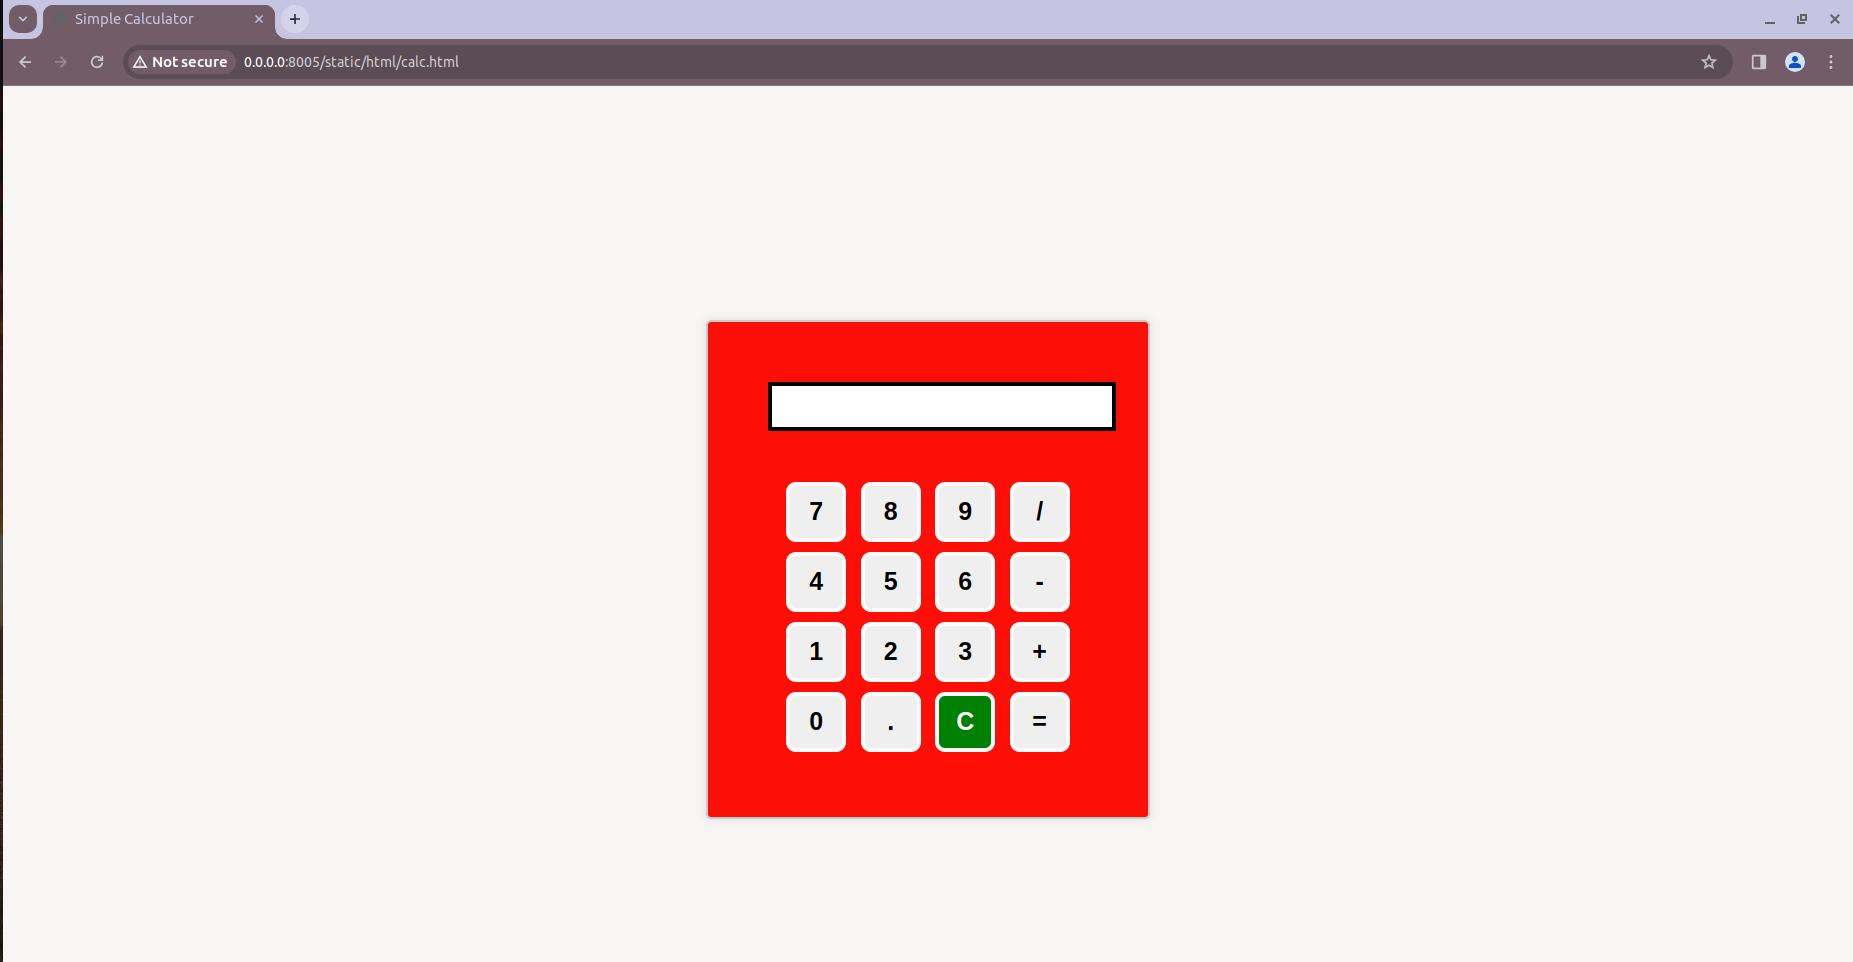
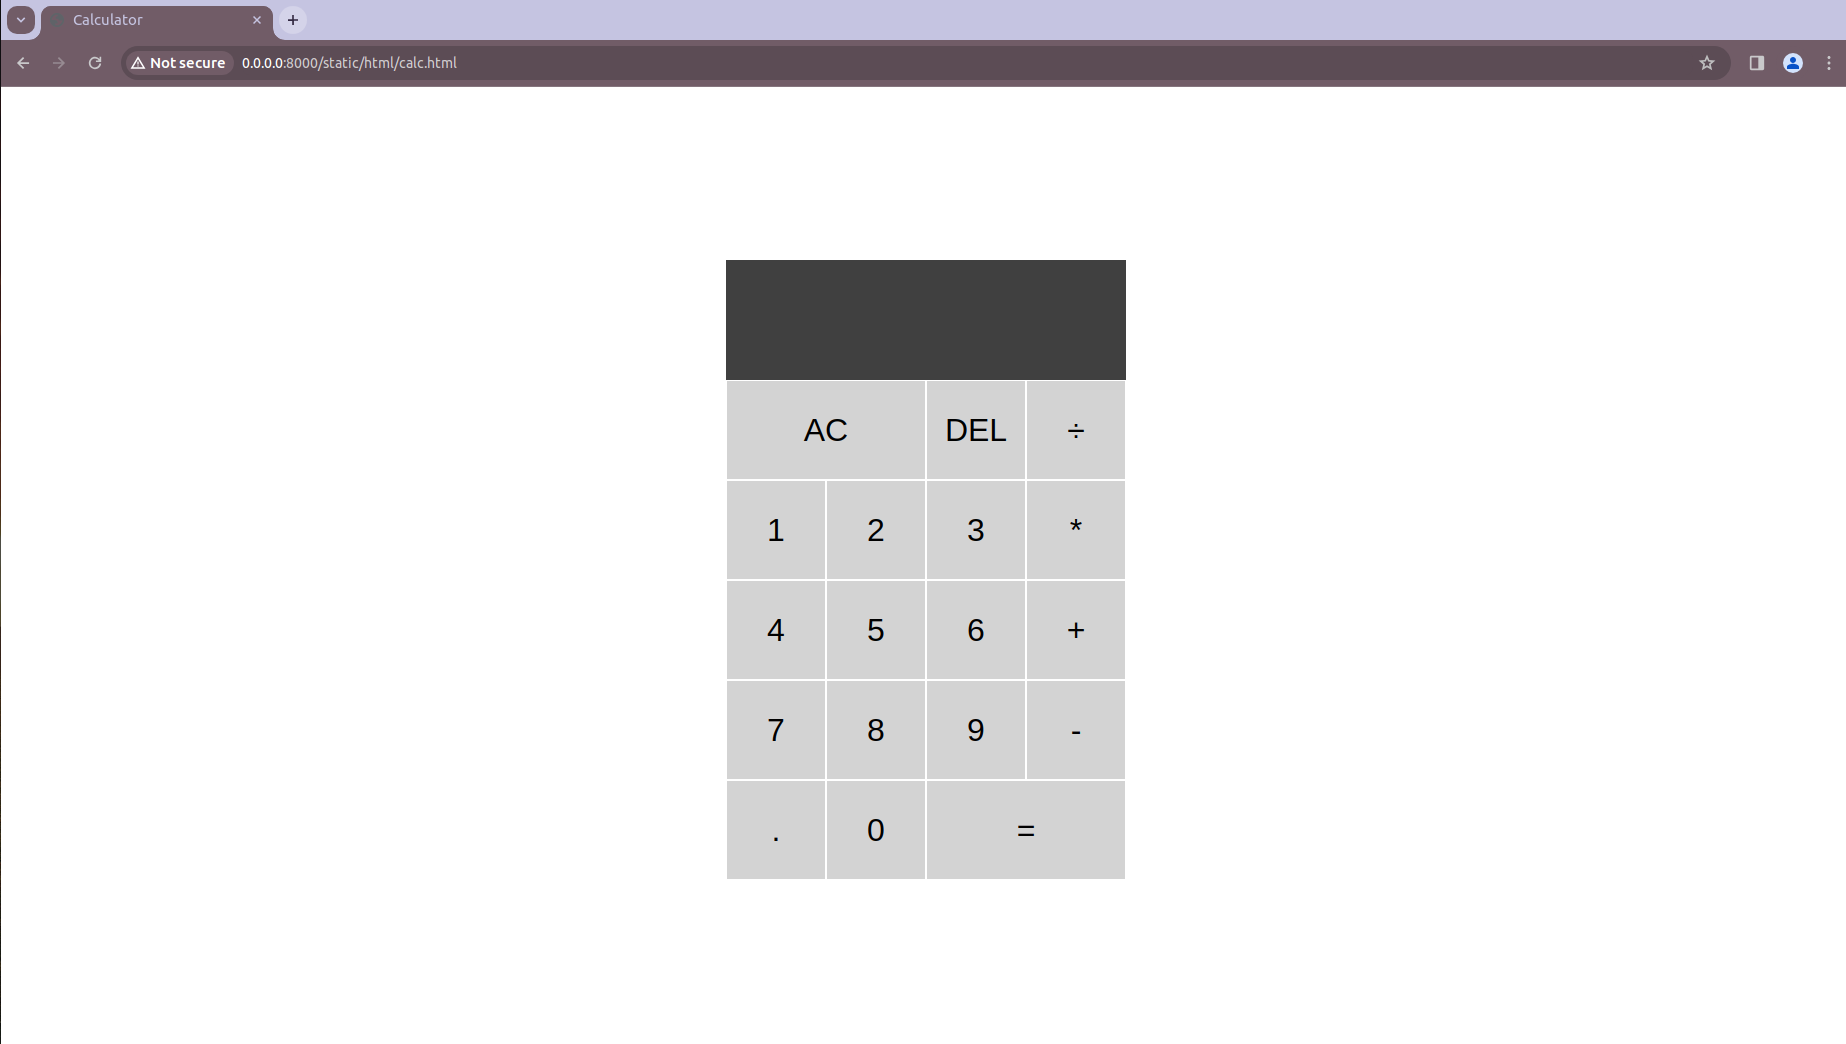
success

Changed region(s): [[0.3705, 0.2495, 0.6484, 0.8732], [0.0, 0.0, 1.0, 0.0936]]

diff --git a/myproj/static/html/calc.html b/myproj/static/html/calc.html
@@ -1,114 +1,229 @@
 <!DOCTYPE html>
 <html lang="en">
 <head>
-    <meta charset="UTF-8">
-    <meta name="viewport" content="width=device-width, initial-scale=1.0">
-    <title>Simple Calculator</title>
-    <style>
-        body {
-            font-family: Arial, sans-serif;
-            display: flex;
-            align-items: center;
-            justify-content: center;
-            height: 100vh;
-            margin: 0;
-            background-color: #f8f5f5;
-            flex-direction: column;
-        }
-
-        #calculator {
-            border: 2px solid #ccc;
-            border-radius: 5px;
-            padding: 60px;
-            text-align: center;
-            box-shadow: 0 0 10px rgba(0, 0, 0, 0.1);
-            background-color: #fd0e06;
-
-
-        }
-
-        input[type="text"] {
-            width: 100%;
-            padding: 10px;
-            margin-bottom: 10px;
-            font-size: 18px;
-           
-        }
-
-        input[type="button"] {
-            width: 60px;
-            height: 60px;
-            font-size: 25px;
-            margin: 5px;
-            cursor: pointer;
-            border-radius: 10px;
-            font-weight:bolder;
-            border: 4px solid rgb(253, 252, 251);
-            
-
-        }
-
-        input[type="button"]:hover {
-            background-color: #eee;
-        }
-
-        #clear {
-            background-color: green;
-            color: #fff;
-        }
-        #display{
-            margin-right: 60px;
-            border: 4px solid black;
-        }
-      .name{
-        margin-bottom: 50px;
-      }
-    </style>
+  <meta charset="UTF-8">
+  <meta name="viewport" content="width=device-width, initial-scale=1.0">
+  <meta http-equiv="X-UA-Compatible" content="ie=edge">
+  <title>Calculator</title>
+  <link href="styles.css" rel="stylesheet">
+  <script src="script.js" defer></script>
 </head>
 <body>
-
-<div id="calculator">
-   
-    <input type="text" id="display" >
-    <br><br><br>
-    <input type="button" value="7" onclick="addToDisplay('7')">
-    <input type="button" value="8" onclick="addToDisplay('8')">
-    <input type="button" value="9" onclick="addToDisplay('9')">
-    <input type="button" value="/" onclick="addToDisplay('/')">
-    <br>
-    <input type="button" value="4" onclick="addToDisplay('4')">
-    <input type="button" value="5" onclick="addToDisplay('5')">
-    <input type="button" value="6" onclick="addToDisplay('6')">
-    <input type="button" value="-" onclick="addToDisplay('-')">
-    <br>
-    <input type="button" value="1" onclick="addToDisplay('1')">
-    <input type="button" value="2" onclick="addToDisplay('2')">
-    <input type="button" value="3" onclick="addToDisplay('3')">
-    <input type="button" value="+" onclick="addToDisplay('+')">
-    <br>
-    <input type="button" value="0" onclick="addToDisplay('0')">
-    <input type="button" value="." onclick="addToDisplay('.')">
-    <input type="button" id="clear" value="C" onclick="clearDisplay()">
-    <input type="button" value="=" onclick="calculate()">
-</div>
-
-<script>
-    function addToDisplay(value) {
-        document.getElementById('display').value += value;
-    }
-
-    function clearDisplay() {
-        document.getElementById('display').value = '';
-    }
-
-    function calculate() {
-        try {
-            document.getElementById('display').value = eval(document.getElementById('display').value);
-        } catch (error) {
-            document.getElementById('display').value = 'Error';
-        }
-    }
-</script>
-
+  <div class="calculator-grid">
+    <div class="output">
+      <div data-previous-operand class="previous-operand"></div>
+      <div data-current-operand class="current-operand"></div>
+    </div>
+    <button data-all-clear class="span-two">AC</button>
+    <button data-delete>DEL</button>
+    <button data-operation>÷</button>
+    <button data-number>1</button>
+    <button data-number>2</button>
+    <button data-number>3</button>
+    <button data-operation>*</button>
+    <button data-number>4</button>
+    <button data-number>5</button>
+    <button data-number>6</button>
+    <button data-operation>+</button>
+    <button data-number>7</button>
+    <button data-number>8</button>
+    <button data-number>9</button>
+    <button data-operation>-</button>
+    <button data-number>.</button>
+    <button data-number>0</button>
+    <button data-equals class="span-two">=</button>
+  </div>
 </body>
 </html>
+
+<script>
+    class Calculator {
+  constructor(previousOperandTextElement, currentOperandTextElement) {
+    this.previousOperandTextElement = previousOperandTextElement
+    this.currentOperandTextElement = currentOperandTextElement
+    this.clear()
+  }
+
+  clear() {
+    this.currentOperand = ''
+    this.previousOperand = ''
+    this.operation = undefined
+  }
+
+  delete() {
+    this.currentOperand = this.currentOperand.toString().slice(0, -1)
+  }
+
+  appendNumber(number) {
+    if (number === '.' && this.currentOperand.includes('.')) return
+    this.currentOperand = this.currentOperand.toString() + number.toString()
+  }
+
+  chooseOperation(operation) {
+    if (this.currentOperand === '') return
+    if (this.previousOperand !== '') {
+      this.compute()
+    }
+    this.operation = operation
+    this.previousOperand = this.currentOperand
+    this.currentOperand = ''
+  }
+
+  compute() {
+    let computation
+    const prev = parseFloat(this.previousOperand)
+    const current = parseFloat(this.currentOperand)
+    if (isNaN(prev) || isNaN(current)) return
+    switch (this.operation) {
+      case '+':
+        computation = prev + current
+        break
+      case '-':
+        computation = prev - current
+        break
+      case '*':
+        computation = prev * current
+        break
+      case '÷':
+        computation = prev / current
+        break
+      default:
+        return
+    }
+    this.currentOperand = computation
+    this.operation = undefined
+    this.previousOperand = ''
+  }
+
+  getDisplayNumber(number) {
+    const stringNumber = number.toString()
+    const integerDigits = parseFloat(stringNumber.split('.')[0])
+    const decimalDigits = stringNumber.split('.')[1]
+    let integerDisplay
+    if (isNaN(integerDigits)) {
+      integerDisplay = ''
+    } else {
+      integerDisplay = integerDigits.toLocaleString('en', { maximumFractionDigits: 0 })
+    }
+    if (decimalDigits != null) {
+      return `${integerDisplay}.${decimalDigits}`
+    } else {
+      return integerDisplay
+    }
+  }
+
+  updateDisplay() {
+    this.currentOperandTextElement.innerText =
+      this.getDisplayNumber(this.currentOperand)
+    if (this.operation != null) {
+      this.previousOperandTextElement.innerText =
+        `${this.getDisplayNumber(this.previousOperand)} ${this.operation}`
+    } else {
+      this.previousOperandTextElement.innerText = ''
+    }
+  }
+}
+
+
+const numberButtons = document.querySelectorAll('[data-number]')
+const operationButtons = document.querySelectorAll('[data-operation]')
+const equalsButton = document.querySelector('[data-equals]')
+const deleteButton = document.querySelector('[data-delete]')
+const allClearButton = document.querySelector('[data-all-clear]')
+const previousOperandTextElement = document.querySelector('[data-previous-operand]')
+const currentOperandTextElement = document.querySelector('[data-current-operand]')
+
+const calculator = new Calculator(previousOperandTextElement, currentOperandTextElement)
+
+numberButtons.forEach(button => {
+  button.addEventListener('click', () => {
+    calculator.appendNumber(button.innerText)
+    calculator.updateDisplay()
+  })
+})
+
+operationButtons.forEach(button => {
+  button.addEventListener('click', () => {
+    calculator.chooseOperation(button.innerText)
+    calculator.updateDisplay()
+  })
+})
+
+equalsButton.addEventListener('click', button => {
+  calculator.compute()
+  calculator.updateDisplay()
+})
+
+allClearButton.addEventListener('click', button => {
+  calculator.clear()
+  calculator.updateDisplay()
+})
+
+deleteButton.addEventListener('click', button => {
+  calculator.delete()
+  calculator.updateDisplay()
+})
+
+</script>
+
+
+<style>
+*, *::before, *::after {
+  box-sizing: border-box;
+  font-family: Gotham Rounded, sans-serif;
+  font-weight: normal;
+}
+
+body {
+  padding: 0;
+  margin: 0;
+  background:(to right,lightsteelblue,lemonchiffon);
+}
+
+.calculator-grid {
+  display: grid;
+  justify-content: center;
+  align-content: center;
+  min-height: 100vh;
+  grid-template-columns: repeat(4, 100px);
+  grid-template-rows: minmax(120px, auto) repeat(5, 100px);
+}
+
+.calculator-grid > button {
+  cursor: pointer;
+  font-size: 2rem;
+  border: 1px solid white;
+  outline: none;
+  background-color: lightgrey;
+}
+
+.calculator-grid > button:hover {
+  background-color:lightyellow;
+}
+
+.span-two {
+  grid-column: span 2;
+}
+
+.output {
+  grid-column: 1 / -1;
+  background-color: rgba(0, 0, 0, .75);
+  display: flex;
+  align-items: flex-end;
+  justify-content: space-around;
+  flex-direction: column;
+  padding: 10px;
+  word-wrap: break-word;
+  word-break: break-all;
+}
+
+.output .previous-operand {
+  color:royalblue;
+  font-size: 1.5rem;
+}
+
+.output .current-operand {
+  color: white;
+  font-size: 2.5rem;
+}
+</style>

diff --git a/README.md b/README.md
@@ -147,3 +147,4 @@ Publish the website in the given URL.
 ![](./3.png)
 ## Result:
 
+ence,
